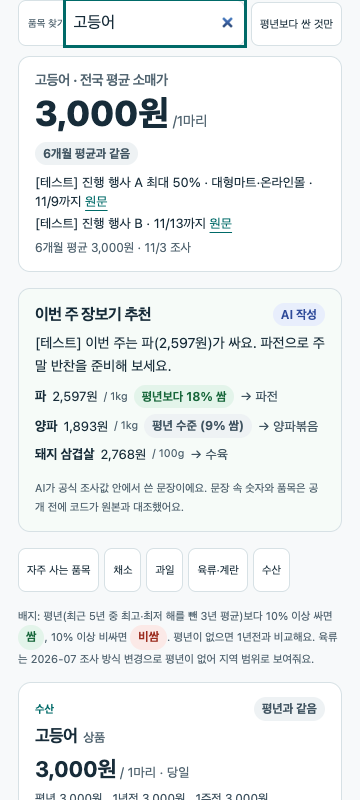
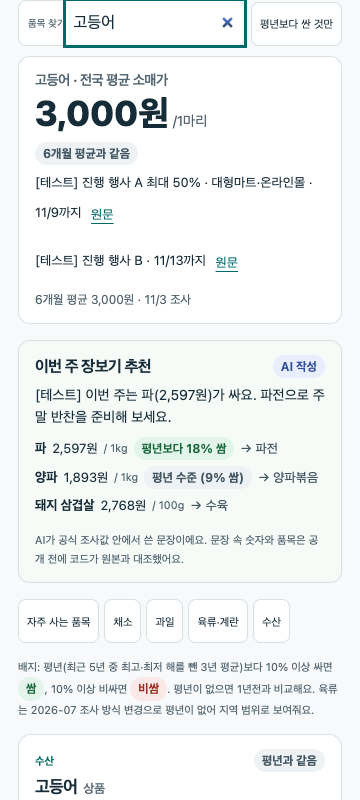
fix(web): 할인 줄 날짜 줄바꿈 방지, 원문 링크 noreferrer, 날짜 검증·중복 제거, 탭 영역 44px

diff --git a/frontend/src/groceries.ts b/frontend/src/groceries.ts
@@ -235,19 +235,27 @@ export function baselineBadge(row:PriceRow,item:BasketItem):{level:'cheap'|'norm
 }
 
 export interface DiscountLink{basketId:string;title:string;discount:string|null;stores:string|null;start:string;end:string;url:string}
-const validDay=(v:unknown):v is string=>typeof v==='string'&&DATE.test(v)&&Number.isFinite(Date.parse(v));
+// Round-trips through toISOString so impossible dates such as 2026-02-30 are rejected.
+const validDay=(v:unknown):v is string=>{
+ if(typeof v!=='string'||!DATE.test(v))return false;
+ const t=Date.parse(v);
+ return Number.isFinite(t)&&new Date(t).toISOString().slice(0,10)===v;
+};
 /** Official discount links (briefing.json grocery_discounts). A link outside today's KST day, a non-https url or any malformed field is dropped. */
 export function parseDiscounts(raw:unknown,now:number):DiscountLink[]{
  if(!record(raw)||!record(raw.grocery_discounts))return [];
  const g=raw.grocery_discounts;
  if(g.schema_version!==1||g.source!=='grocery_discounts'||!Array.isArray(g.links)||g.links.length>200)return [];
- const today=kstDate(now),out:DiscountLink[]=[];
+ const today=kstDate(now),out:DiscountLink[]=[],seen=new Set<string>();
  for(const x of g.links){
   if(!record(x)||!text(x.basket_id,40)||!text(x.title,120)||!validDay(x.start)||!validDay(x.end))continue;
   if(x.discount!==null&&!text(x.discount,40))continue;
   if(x.stores!==null&&!text(x.stores,60))continue;
   if(typeof x.url!=='string'||x.url.length>500||!/^https:\/\/[^\s<>"']+$/.test(x.url))continue;
   if(today<x.start||today>x.end)continue;
+  const key=[x.basket_id,x.url,x.end].join('|');
+  if(seen.has(key))continue;
+  seen.add(key);
   out.push({basketId:x.basket_id,title:x.title,discount:x.discount as string|null,stores:x.stores as string|null,start:x.start,end:x.end,url:x.url});
  }
  return out;
@@ -257,7 +265,12 @@ export function discountsFor(links:DiscountLink[],basketId:string):{shown:Discou
  const mine=links.filter(l=>l.basketId===basketId).sort((a,b)=>a.end.localeCompare(b.end));
  return {shown:mine.slice(0,2),more:Math.max(0,mine.length-2)};
 }
+/** The line in three pieces so the template can keep the date from splitting across lines. */
+export function discountParts(l:DiscountLink):{head:string;stores:string|null;date:string}{
+ return {head:[l.title,l.discount].filter(Boolean).join(' '),stores:l.stores,date:`${Number(l.end.slice(5,7))}/${Number(l.end.slice(8,10))}까지`};
+}
 /** '{title} {discount} · {stores} · {M/D}까지'; null pieces and their separators are left out. */
 export function discountLine(l:DiscountLink):string{
- return [[l.title,l.discount].filter(Boolean).join(' '),l.stores,`${Number(l.end.slice(5,7))}/${Number(l.end.slice(8,10))}까지`].filter(Boolean).join(' · ');
+ const p=discountParts(l);
+ return [p.head,p.stores,p.date].filter(Boolean).join(' · ');
 }

diff --git a/frontend/src/style.css b/frontend/src/style.css
@@ -89,4 +89,4 @@
 .health-programs{background:#fff;border:1px solid #bed6d1;border-radius:12px;padding:16px 18px;margin:0 0 22px}.health-programs h3,.health-notices-title{font-size:17px}.health-programs h3>span{font-size:13px;color:var(--accent);margin-left:6px}.health-programs .fine-print{margin:6px 0 10px}.health-program-group{display:flex;gap:12px;padding:8px 0;border-top:1px solid #e5ebee;font-size:14px}.health-program-group>strong{flex:0 0 72px;color:var(--accent);font-size:13px;padding-top:2px}.health-program-group ul{list-style:none;padding:0;margin:0;display:flex;flex-wrap:wrap;gap:4px 14px}.health-program-group li{min-height:32px;display:flex;align-items:center}.health-program-group small{font-size:11px;color:var(--muted);margin-left:4px}.health-stale{color:#805000!important}.health-notices-title{margin:0 0 4px}@media(max-width:767px){.health-program-group{flex-direction:column;gap:4px}.health-program-group>strong{flex:none}}
 .health-programs summary{cursor:pointer;list-style:none;display:flex;flex-wrap:wrap;align-items:baseline;gap:4px 10px;min-height:44px}.health-programs summary::-webkit-details-marker{display:none}.health-programs summary small{font-size:12px;color:var(--muted)}.health-programs summary h3::after{content:" +";color:var(--muted)}.health-programs[open] summary h3::after{content:" −"}
 .health-program-group li.noted{flex-basis:100%;flex-direction:column;align-items:flex-start;background:#f6fbfa;border:1px solid #d5e7e3;border-radius:9px;padding:8px 10px;margin:2px 0}.health-note{font-size:14px;line-height:1.65;color:var(--ink);margin-top:4px}.health-ai{display:inline-block;font-size:11px;font-weight:700;color:#005d59;background:#e0f0ed;border-radius:5px;padding:0 6px;margin-right:6px}
-.grocery-quick-deals{list-style:none;margin:8px 0 0;padding:0;font-size:13px;color:var(--ink);line-height:1.4}.grocery-quick-deals li{margin:0 0 4px;overflow-wrap:anywhere}.grocery-quick-deals a,.grocery-quick-deals button{color:var(--accent);text-decoration:underline;font:inherit;background:none;border:0;padding:0;cursor:pointer}.grocery-quick-deals button{min-height:32px}
+.grocery-quick-deals{list-style:none;margin:8px 0 0;padding:0;font-size:13px;color:var(--ink);line-height:1.4}.grocery-quick-deals li{margin:0 0 4px;overflow-wrap:break-word}.grocery-quick-deals .nb{white-space:nowrap}.grocery-quick-deals a,.grocery-quick-deals button{color:var(--accent);text-decoration:underline;font:inherit;background:none;border:0;padding:0 6px;cursor:pointer;display:inline-flex;align-items:center;min-height:44px;vertical-align:middle}

diff --git a/frontend/src/GroceryQuickCheck.vue b/frontend/src/GroceryQuickCheck.vue
@@ -1,6 +1,6 @@
 <script setup lang="ts">
 import { computed } from 'vue';
-import { quickMatch, baselineBadge, discountsFor, discountLine, won, type BasketItem, type PriceRow, type DiscountLink } from './groceries';
+import { quickMatch, baselineBadge, discountsFor, discountLine, discountParts, won, type BasketItem, type PriceRow, type DiscountLink } from './groceries';
 const props=defineProps<{q:string;basket:BasketItem[];rows:PriceRow[];produceDate:string|null;meatDate:string|null;discounts?:DiscountLink[]}>();
 const emit=defineEmits<{pick:[name:string];more:[]}>();
 const md=(d:string|null)=>d?`${Number(d.slice(5,7))}/${Number(d.slice(8,10))}`:'';
@@ -22,7 +22,7 @@ const view=computed(()=>{
     <p class="grocery-quick-price"><strong>{{ won(view.row.current) }}</strong> /{{ view.row.unit.replace(/^원\//,'') }}</p>
     <span v-if="view.badge" class="grocery-badge" :class="view.badge.level">{{ view.badge.label }}</span>
     <ul v-if="view.disc.shown.length" class="grocery-quick-deals" aria-label="진행 중인 공식 할인행사">
-      <li v-for="l in view.disc.shown" :key="l.url+l.end">{{ discountLine(l) }} <a :href="l.url" target="_blank" rel="noopener">원문</a></li>
+      <li v-for="l in view.disc.shown" :key="l.url+l.end">{{ discountParts(l).head }} · <template v-if="l.stores">{{ l.stores }} · </template><span class="nb">{{ discountParts(l).date }}</span> <a :href="l.url" target="_blank" rel="noopener noreferrer">원문</a></li>
       <li v-if="view.disc.more"><button type="button" @click="emit('more')">외 {{ view.disc.more }}건</button></li>
     </ul>
     <p class="grocery-quick-note"><template v-if="view.avg"><template v-if="view.row.kind==='meat'">조사 방식 변경(7월) 후 </template>{{ Math.min(view.avg.months,12) }}개월 평균 {{ won(view.avg.avg) }}<template v-if="view.date"> · </template></template><template v-if="view.date">{{ view.date }} 조사</template></p>

diff --git a/frontend/tests/e2e/groceries.spec.ts b/frontend/tests/e2e/groceries.spec.ts
@@ -237,7 +237,10 @@ for(const [width,height] of [[360,800],[390,844]])test(`discount line sits under
  const link=lines.first().getByRole('link',{name:'원문'});
  await expect(link).toHaveAttribute('href','https://www.mof.go.kr/deal-a');
  await expect(link).toHaveAttribute('target','_blank');
- await expect(link).toHaveAttribute('rel','noopener');
+ await expect(link).toHaveAttribute('rel','noopener noreferrer');
+ // The date piece never splits across lines, and the tap targets are 44px tall.
+ for(const nb of await lines.locator('.nb').all())expect(await nb.evaluate(e=>e.getClientRects().length)).toBe(1);
+ expect((await link.boundingBox())!.height).toBeGreaterThanOrEqual(44);
  await expect(page.locator('#groceries [role=status]')).toContainText('진행 중인 공식 할인행사 [테스트] 진행 행사 A');
  await page.screenshot({path:`../docs/qa/screenshots/grocery-discount-${width}.png`});
  expect(await page.evaluate(()=>document.documentElement.scrollWidth<=innerWidth)).toBe(true);
@@ -256,6 +259,7 @@ test('외 N건 appears for a third link and opens the benefits tab',async({page}
  await page.getByRole('tab',{name:'장보기'}).click();
  await page.locator('#grocery-q').fill('고등어');
  await expect(page.locator('.grocery-quick-deals li')).toHaveCount(3);
+ expect((await page.getByRole('button',{name:'외 1건'}).boundingBox())!.height).toBeGreaterThanOrEqual(44);
  await page.getByRole('button',{name:'외 1건'}).click();
  await expect(page.getByRole('tab',{name:'혜택'})).toHaveAttribute('aria-selected','true');
  await expect(page.locator('#results')).toBeVisible();

diff --git a/frontend/tests/groceries.test.ts b/frontend/tests/groceries.test.ts
@@ -261,3 +261,10 @@ test('discountsFor shows at most 2 by end date and counts the rest',()=>{
  assert.equal(r.more,1);
  assert.deepEqual(discountsFor(links,'none'),{shown:[],more:0});
 });
+test('parseDiscounts rejects impossible calendar dates and drops duplicates',()=>{
+ assert.equal(parseDiscounts(discounts([link({start:'2026-02-30'})]),NOW).length,0);
+ assert.equal(parseDiscounts(discounts([link({end:'2026-13-01'})]),NOW).length,0);
+ assert.equal(parseDiscounts(discounts([link({end:'2026-11-31'})]),NOW).length,0);
+ const dup=parseDiscounts(discounts([link(),link(),link({url:'https://www.mof.go.kr/b'}),link({basket_id:'other'})]),NOW);
+ assert.equal(dup.length,3);
+});
